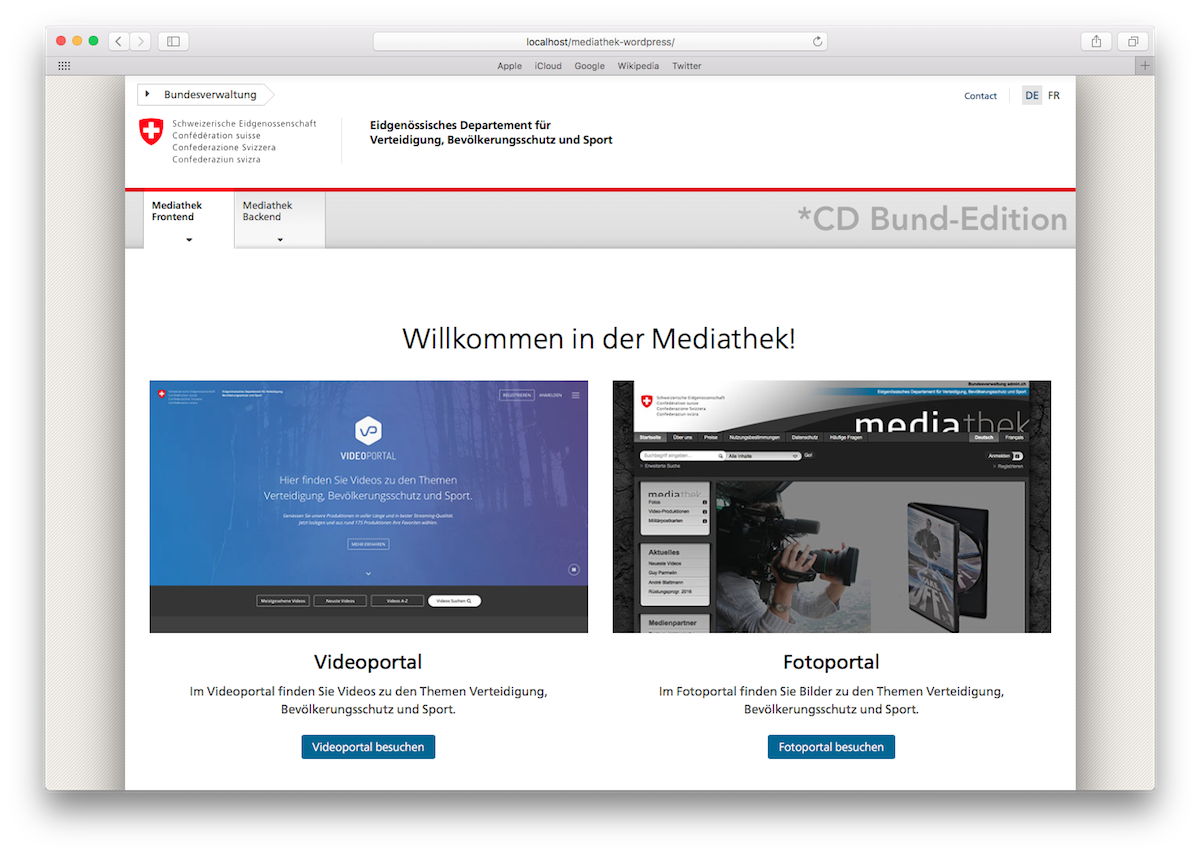
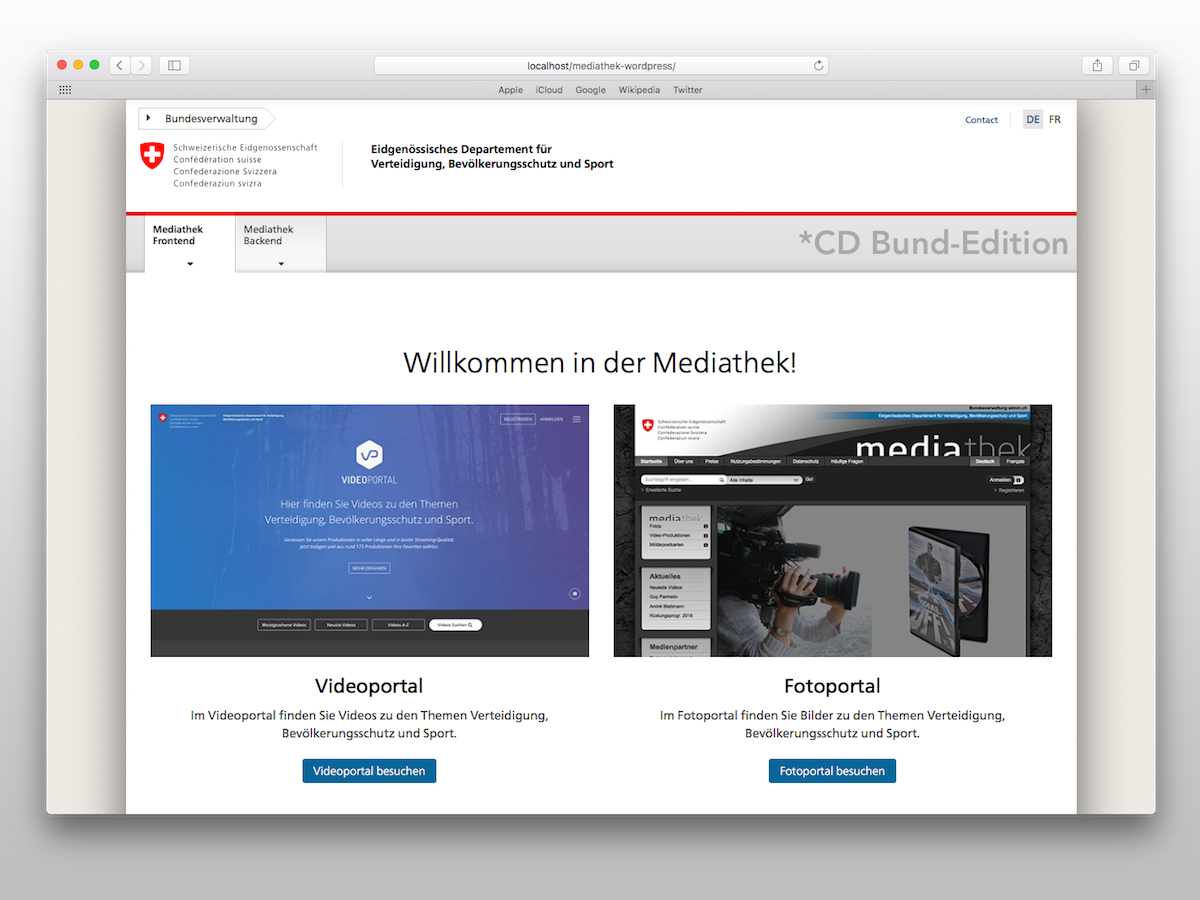
Update
Did some improvements from the Theme Check-plugin

diff --git a/style.scss b/style.scss
@@ -1,11 +1,14 @@
 /*
-Theme Name: Mediathek Landingpage Theme
+Theme Name: Mediathek Landing Theme
 Theme URI: http://zem.ch
 Description: Wordpress-Theme fuer die Landingpage der Mediathek
 Author: Stefan Eckstein
 Author URI: https://eckstein.be
 Version: 0.1
+License: GNU General Public License v2 or later
+License URI: http://www.gnu.org/licenses/gpl-2.0.html
 Tags: featured-images, custom-menu, theme-options, news
+Text Domain: mtlandingtheme
 */
 
 
@@ -128,40 +131,45 @@ input.btn{
 - - - */
 
 .wp-caption{
-    
+    font-size: auto;
 }
 
 .wp-caption-text{
-    
+    font-size: auto;
 }
 
 .sticky{
-    
+    font-size: auto;
 }
 
 .screen-reader-text{
-    
+    font-size: auto;
 }
 
 .gallery-caption{
-    
+    font-size: auto;
 }
 
 .bypostauthor{
-    
+    font-size: auto;
 }
 
 .alignright{
-    
+    font-size: auto;
 }
 
 .alignleft{
-    
+    font-size: auto;
 }
 
 .aligncenter{
-    
+    font-size: auto;
 }
+
+.screen-reader-text{
+    color: red;
+}
+
 @media screen and (max-width : 768px)  {
     .col-sm-4{
         /*width: 50% !important;*/

diff --git a/style.css b/style.css
@@ -1,11 +1,14 @@
 /*
-Theme Name: Mediathek Landingpage Theme
+Theme Name: Mediathek Landing Theme
 Theme URI: http://zem.ch
 Description: Wordpress-Theme fuer die Landingpage der Mediathek
 Author: Stefan Eckstein
 Author URI: https://eckstein.be
 Version: 0.1
+License: GNU General Public License v2 or later
+License URI: http://www.gnu.org/licenses/gpl-2.0.html
 Tags: featured-images, custom-menu, theme-options, news
+Text Domain: mtlandingtheme
 */
 html {
   border: none;
@@ -94,6 +97,36 @@ input.btn {
     Standard Wordpress-Classes
 
 - - - */
+.wp-caption {
+  font-size: auto; }
+
+.wp-caption-text {
+  font-size: auto; }
+
+.sticky {
+  font-size: auto; }
+
+.screen-reader-text {
+  font-size: auto; }
+
+.gallery-caption {
+  font-size: auto; }
+
+.bypostauthor {
+  font-size: auto; }
+
+.alignright {
+  font-size: auto; }
+
+.alignleft {
+  font-size: auto; }
+
+.aligncenter {
+  font-size: auto; }
+
+.screen-reader-text {
+  color: red; }
+
 @media screen and (max-width: 768px) {
   .col-sm-4 {
     /*width: 50% !important;*/ } }

diff --git a/header.php b/header.php
@@ -1,27 +1,17 @@
 <!DOCTYPE html>
-<?php wp_head(); ?>
-<html>
+<html <?php language_attributes(); ?>>
     <head> 
         <meta charset="utf-8">
         <meta name="viewport" content="width=device-width, initial-scale=1">
         
-        <title>
-            <?php if(is_home() || is_front_page()) {
-				echo "Home | "; bloginfo('name'); ?>
-				<?php } else { ?>
-				<?php wp_title('','true','right'); ?> | <?php bloginfo('name'); ?>
-			<?php } ?>
-        </title>
         <link rel="stylesheet" href="<?php echo get_template_directory_uri(); ?>/css/print.css" type="text/css" />
         <link rel="stylesheet" href="<?php echo get_template_directory_uri(); ?>/css/admin.css" type="text/css" />
         <link rel="stylesheet" href="<?php echo get_template_directory_uri(); ?>/css/vendors.css" type="text/css" />
         <link rel="stylesheet" href="<?php bloginfo('stylesheet_url'); ?>" type="text/css" media="screen" />
         
-        <link rel="shortcut icon" href="<?php echo get_template_directory_uri(); ?>/img/favicon.ico" type="image/x-icon" />
-        <link rel="icon" href="<?php echo get_template_directory_uri(); ?>/img/favicon.ico" type="image/x-icon" />
-        
+    <?php wp_head(); ?>
     </head>
-    <body>
+    <body <?php body_class(); ?>>
         <div class="container container-main">
             <header>
                 <div class="clearfix">
@@ -64,7 +54,7 @@
 
                 <div class="clearfix">
                     <a href="#" class="brand hidden-xs" title="back to home">
-                        <img src="<?php echo get_template_directory_uri(); ?>/img/logo-CH.svg" data-fallback="<?php echo get_template_directory_uri(); ?>/img/logo-ch.png" alt="Swiss">
+                        <img src="<?php header_image(); ?>" data-fallback="<?php echo get_template_directory_uri(); ?>/img/logo-ch.png" height="<?php echo get_custom_header()->height; ?>" width="<?php echo get_custom_header()->width; ?>" alt="Swiss">
                         
                         <h1>
                             <?php $options = get_option('mt_theme_options'); echo $options['head_departement_title'];?>

diff --git a/footer.php b/footer.php
@@ -47,34 +47,12 @@
 
 
     <?php wp_footer(); ?>
-    </body>
+
     
 
     <script src="<?php echo get_template_directory_uri(); ?>/js/vendors.min.js"></script>
     <script src="<?php echo get_template_directory_uri(); ?>/js/polyfill.min.js"></script>
     <script src="<?php echo get_template_directory_uri(); ?>/js/main.min.js"></script>
-        
-    <script>		
-		if(window.location.search == "?lang=fr"){
-			$(".langfr").addClass("active");
-		}else{
-			$(".langfr").removeClass("active");
-		}
-        if(window.location.search == "?lang=de"){
-			$(".langde").addClass("active");
-		}else{
-			$(".langde").removeClass("active");
-		}
-        if(window.location.search == "?lang=it"){
-			$(".langit").addClass("active");
-		}else{
-			$(".langit").removeClass("active");
-		}
-        if(window.location.search == "?lang=en"){
-			$(".langen").addClass("active");
-		}else{
-			$(".langen").removeClass("active");
-		}        
-	</script>
-    
+
+    </body>
 </html>

diff --git a/functions.php b/functions.php
@@ -2,6 +2,24 @@
 
 add_theme_support( 'post-thumbnails' ); 
 
+$bgargs = array(
+	'default-color' => 'ffffff',
+	//'default-image' => '%1$s/img/bg-striped.png',
+);
+
+add_theme_support( 'custom-background', $bgargs );
+
+
+$headerargs = array(
+	'width'         => 252,
+    'flex-height'    => true,
+	'default-image' => get_template_directory_uri() . '/img/logo-CH.svg',
+);
+
+add_theme_support( 'custom-header', $headerargs );
+
+add_theme_support( 'title-tag' );
+
 register_nav_menus(array(
     "service-nav" => "Service Navigation",
     "lang-nav" => "Language Navigation",
@@ -24,6 +42,9 @@ function special_nav_class ($classes, $item) {
     }
     return $classes;
 }
+
+
+
 
 
 /* 
